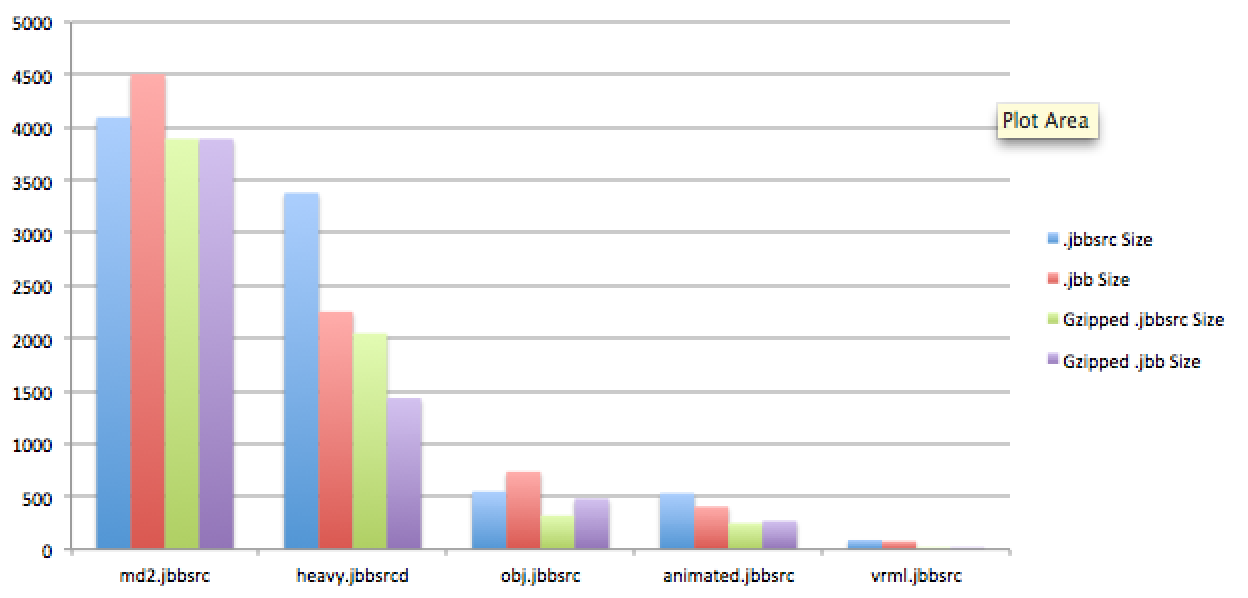
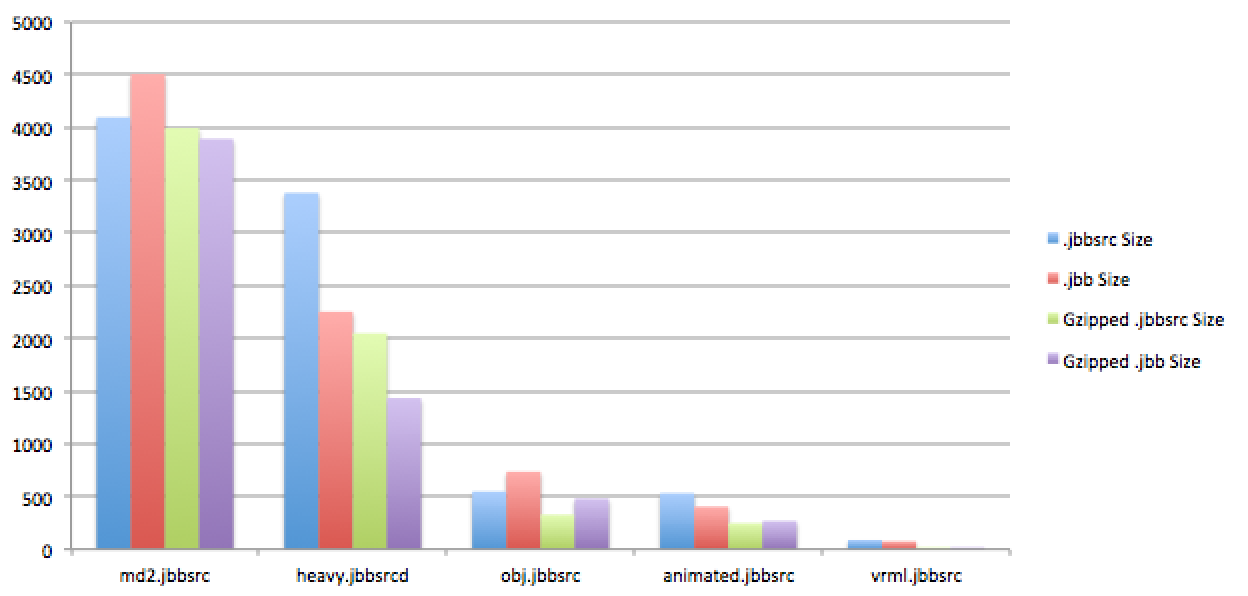
Updating the jbb article

diff --git a/_posts/2016-05-10-make-your-javascript-resources-loade-30-percent-faster.md b/_posts/2016-05-10-make-your-javascript-resources-loade-30-percent-faster.md
@@ -11,15 +11,19 @@ logo: 'assets/images/wavesoft.png'
 cover: 'assets/images/cover13.jpg'
 ---
 
-In my [last article](/javascript-binary-bundles) I wrote about my idea on how bundling javascript resources can save space and decrease the loading time. I have been playing with this idea for quite some time and today I decided to put it down for some serious testing.
+In my [last article](/javascript-binary-bundles) I wrote about my idea on how bundling javascript resources can save space and decrease the loading time. I have been working with this idea for quite some time and today I decided to put it down for some serious testing.
 
-Skipping the long technical part, [jbb](https://github.com/wavesoft/jbb) is a serialisation format for javascript structures. It was originally designed to be a replacement to the dozens of different 3D model formats out there, trying to outperform -or par with- them in loading time. 
+Skipping the long technical part, [jbb](https://github.com/wavesoft/jbb) is a serialisation format for javascript structures. It was originally designed to be a replacement to the dozens of different 3D model formats out there, trying to outperform - or par with - them in loading time. The operation principle is simple: You load your resources with node.js in the same way you do in the browser and you pack the them in a bundle. This will also bundle referred DOM elements, such as images, videos, sounds or scripts, making this format ideal for any kind of run-time resources. 
 
-So, trying to be fair, I decided to load meshes from a variety of mesh formats, encode them to `jbb` along with their resources (ex. images) and compare the size and loading time.
+For my tests, I decided to focus on the 3D models since they are the most demanding. I selected a variety of meshes in different formats, I encoded them to `jbb` and I compared the bundle size and loading speed. I was pleased to find out that in most of the cases, `.jbb` can **speed-up the loading time up to 30%!**
 
 ## Picking source files
 
-I browsed through the [models in the three.js examples](https://github.com/mrdoob/three.js/tree/master/examples) and I picked a few candidates for the `jbb` encoder. I looked for the most common file formats and for already optimised file formats in order to make the competition harder. That said, I collected a few and grouped them in 5 different bundles:
+I browsed through the models in the [three.js examples](https://github.com/mrdoob/three.js/tree/master/examples) and I hand-picked a few candidates for the `jbb` encoder. I looked for the most wide-used file formats and for already optimised file formats in order to make the competition harder.
+
+I then grouped them together and created five different [source bundles](https://github.com/wavesoft/jbb#creating-a-bundle), that can be tested individually. Each source bundle consists of an index file and the source model files in their original format.
+
+The following table illustrates the bundles and their contents. Click on the number of files for more details:
 
 <table>
     <tr>
@@ -32,9 +36,7 @@ I browsed through the [models in the three.js examples](https://github.com/mrdoo
         <td><code>vrml.jbbsrc</code></td>
         <td>88K</td>
         <td>
-            <ul>
-                <li><code>house.wrl</code></li>
-            </ul>
+            <a href="https://github.com/wavesoft/jbb-tests/tree/master/bundles/vrml.jbbsrc" target="_blank">2 Files</a>
         </td>
         <td>
             VRML is a simple, yet frequently encountered format for 3D models. It should be dead simple for jbb to beat it.
@@ -44,13 +46,7 @@ I browsed through the [models in the three.js examples](https://github.com/mrdoo
         <td><code>animated.jbbsrc</code></td>
         <td>532K</td>
         <td>
-            <ul>
-                <li><code>flamingo.js</code></li>
-                <li><code>horse.js</code></li>
-                <li><code>monster</code></li>
-                <li><code>monster.jpg</code></li>
-                <li><code>monster.js</code></li>
-            </ul>
+            <a href="https://github.com/wavesoft/jbb-tests/tree/master/bundles/animated.jbbsrc" target="_blank">6 Files</a>
         </td>
         <td>
             These are some animated models with different complexity. They are encoded as THREE.js JSON objects, which is quite fast to parse.
@@ -60,10 +56,7 @@ I browsed through the [models in the three.js examples](https://github.com/mrdoo
         <td><code>obj.jbbsrc</code></td>
         <td>548K</td>
         <td>
-            <ul>
-                <li><code>WaltHead_bin.bin</code></li>
-                <li><code>WaltHead_bin.js</code></li>
-            </ul>
+            <a href="https://github.com/wavesoft/jbb-tests/tree/master/bundles/obj.jbbsrc" target="_blank">3 Files</a>
         </td>
         <td>
             This is a quite big mesh file, in the widely used Wavefont .obj binary format. Looks like a challenging competitor.
@@ -73,26 +66,7 @@ I browsed through the [models in the three.js examples](https://github.com/mrdoo
         <td><code>heavy.jbbsrcd</code></td>
         <td>3.3M</td>
         <td>
-            <ul>
-                <li><code>ben.js</code></li>
-                <li><code>ben.utf8</code></li>
-                <li><code>ben_dds.js</code></li>
-                <li><code>dds/James_Body_Lores.dds</code></li>
-                <li><code>dds/James_Eye_Green.dds</code></li>
-                <li><code>dds/James_Eye_Inner_Green.dds</code></li>
-                <li><code>dds/James_EyeLashBotTran.dds</code></li>
-                <li><code>dds/James_EyeLashTopTran.dds</code></li>
-                <li><code>dds/James_Face_Color_Hair_Lores.dds</code></li>
-                <li><code>dds/James_Mouth_Gum_Lores.dds</code></li>
-                <li><code>dds/James_Tongue_Lores.dds</code></li>
-                <li><code>dds/MCasShoe1TEX_Lores.dds</code></li>
-                <li><code>dds/MJeans1TEX_Lores.dds</code></li>
-                <li><code>dds/MTshirt3TEX_Lores.dds</code></li>
-                <li><code>dds/Nail_Hand_01_Lores.dds</code></li>
-                <li><code>hand.jpg</code></li>
-                <li><code>hand.js</code></li>
-                <li><code>hand.utf8</code></li>
-            </ul>
+            <a href="https://github.com/wavesoft/jbb-tests/tree/master/bundles/heavy.jbbsrc" target="_blank">19 Files</a>
         </td>
         <td>
             The <code>ben.utf8</code> and <code>hand.utf8</code> are two havey meshes encoded in UTF8 format. This is another well-optimised format for storing high-density meshes and another difficult competitor for jbb.
@@ -102,37 +76,7 @@ I browsed through the [models in the three.js examples](https://github.com/mrdoo
         <td><code>md2.jbbsrc</code></td>
         <td>4.0M</td>
         <td>
-            <ul>
-                <li><code>ratamahatta.md2</code></li>
-                <li><code>w_bfg.md2</code></li>
-                <li><code>w_blaster.md2</code></li>
-                <li><code>w_chaingun.MD2</code></li>
-                <li><code>w_glauncher.md2</code></li>
-                <li><code>w_hyperblaster.md2</code></li>
-                <li><code>w_machinegun.md2</code></li>
-                <li><code>w_railgun.md2</code></li>
-                <li><code>w_rlauncher.md2</code></li>
-                <li><code>w_shotgun.md2</code></li>
-                <li><code>w_sshotgun.md2</code></li>
-                <li><code>weapon.md2</code></li>
-                <li><code>skins/ctf_b.png</code></li>
-                <li><code>skins/ctf_r.png</code></li>
-                <li><code>skins/dead.png</code></li>
-                <li><code>skins/gearwhore.png</code></li>
-                <li><code>skins/ratamahatta.png</code></li>
-                <li><code>skins/w_bfg.png</code></li>
-                <li><code>skins/w_blaster.png</code></li>
-                <li><code>skins/w_chaingun.png</code></li>
-                <li><code>skins/w_glauncher.png</code></li>
-                <li><code>skins/w_hyperblaster.png</code></li>
-                <li><code>skins/w_machinegun.png</code></li>
-                <li><code>skins/w_railgun.png</code></li>
-                <li><code>skins/w_rlauncher.png</code></li>
-                <li><code>skins/w_shotgun.png</code></li>
-                <li><code>skins/w_sshotgun.png</code></li>
-                <li><code>skins/weapon.png</code></li>
-                <li><code>grasslight-big.jpg</code></li>
-            </ul>
+            <a href="https://github.com/wavesoft/jbb-tests/tree/master/bundles/md2.jbbsrc" target="_blank">30 Files</a>
         </td>
         <td>
             This format is used by Quake II to encode animated models. It's a quite optimised file format, both for size and loading time. This also looks like another good competitor.
@@ -142,25 +86,25 @@ I browsed through the [models in the three.js examples](https://github.com/mrdoo
 
 ## Size comparison
 
-I used the JBB compiler to load the meshes using their individual loader and to encode them in a `.jbb` bundle. Since a jbb archive is quite sparse, it can easily benefit from a gzip compression. 
+I used the JBB compiler to load the meshes using their individual loader and to encode them in a `.jbb` bundle. In addition, I compressed the bundle, since a jbb archive is quite sparse, and it can easily benefit from it. I used GZip compression at maximum level, since we can get it for free from the browser. 
 
-To be fair, I also decided to compress the source bundles in order to have a reference value.
+To be fair, I also decided to compress the source bundles in order to have a reference value. I compressed each file individually, since this is how the would be served.
 
-Putting them in a table we see the following:
+The following table summarises the results:
 
 <table>
     <tr>
         <th>Bundle</th>
         <th>.jbbsrc Size</th>
         <th>.jbb Size</th>
-        <th>Gzipped .jbbsrc Size</th>
-        <th>Gzipped .jbb Size</th>
+        <th>GZipped .jbbsrc Size</th>
+        <th>GZipped .jbb Size</th>
     </tr>
     <tr>
         <td><code>md2.jbbsrc</code></td>
         <td>4.0M</td>
         <td>4.4M</td>
-        <th>3.8M</th>
+        <th>3.9M</th>
         <th>3.8M</th>
     </th>
     <tr>
@@ -174,34 +118,34 @@ Putting them in a table we see the following:
         <td><code>obj.jbbsrc</code></td>
         <td>548K</td>
         <td>736K</td>
-        <th>320K</th>
+        <th>328K</th>
         <th>480K</th>
     </th>
     <tr>
         <td><code>animated.jbbsrc</code></td>
         <td>532K</td>
         <td>404K</td>
-        <th>248K</th>
+        <th>260K</th>
         <th>268K</th>
     </th>
     <tr>
         <td><code>vrml.jbbsrc</code></td>
         <td>88K</td>
         <td>76K</td>
-        <th>12K</th>
+        <th>16K</th>
         <th>12K</th>
     </th>
 </table>
 
 <img src="/assets/images/jbb-plot-size.png" alt="Size comparison" />
 
-Ok, so we don't have a clear winner. If we compare it against the compressed source bundle, `jbb` can even be bigger in be some cases. This means that if you just enable gzip compression in your webserver you are as good as `jbb`.
+We can definitely see that the compressed version of `.jbb` is always smaller than the source files, however that's not always the case when comparing to the compressed version of them.
 
-So let's have a look at the parsing time. 
+At least we can see that `.jbb` is not introducing any penalty for the next tests. So let's have a look at the parsing time next.
 
 ## Speed comparison
 
-I created a [mocha test file](https://github.com/wavesoft/jbb/blob/master/test/test-three.js) that executes the following steps:
+I created a [mocha test file](https://github.com/wavesoft/jbb/blob/master/test/test-three.js) that executes the following steps for every bundle:
 
  * Load the source bundle
  * Encode the javascript structures to a `jbb` bundle
@@ -245,7 +189,9 @@ The following table illustrates the different loading times:
 
 <img src="/assets/images/jbb-plot-speed.png" alt="Speed comparison" />
 
-Here we see something more interesting. Even though in one case `jbb` loads slightly slower than it's competitor, overall the average loading time of the `jbb` bundle is **30% to 35% faster**.
+Here we see something more interesting. Even though in one case `jbb` loads slightly slower than it's competitor, the overall average loading time of the `jbb` bundle is **30% to 35% faster**.
+
+Not to get excited yet, since this is an ideal scenario on my development machine. Let's see how it behaves in the real world...
 
 ## A real-world example
 
@@ -263,10 +209,12 @@ Surprisingly enough, even with one bad case, the average loading time with `jbb`
 
 ## Conclusions
 
+I have intentionally picked some corner case for the `.jbb` format, but I might have missed some other real-world scenarios. Nonetheless, with what I observed so far, it looks that `.jbb` is a quite promising bundling format.
+
 The JBB project has matured during the past year, and it can now [even integrate with your gulp](https://github.com/wavesoft/gulp-jbb) pipeline, bringing it one step closer to your project.
 
-Even though new features are still planned, you can already benefit from JBB's performance and usability! You can start with the [JBB and THREE.js tutorial](https://github.com/wavesoft/jbb/blob/master/doc/Tutorial%201%20-%20THREEjs/Using%20with%20THREEjs.md).
+Even though more optimisations and new features are still under development, you can already benefit from JBB's performance and bundling convenience! If you are curious, you can start with the [JBB and THREE.js tutorial](https://github.com/wavesoft/jbb/blob/master/doc/Tutorial%201%20-%20THREEjs/Using%20with%20THREEjs.md).
 
-I am looking forward to hearing from your experience with jbb.
+I am looking forward to hearing from your experience with jbb. And of course your complaints and objections, since this is a live project!
 
 Github: [https://github.com/wavesoft/jbb](https://github.com/wavesoft/jbb)
